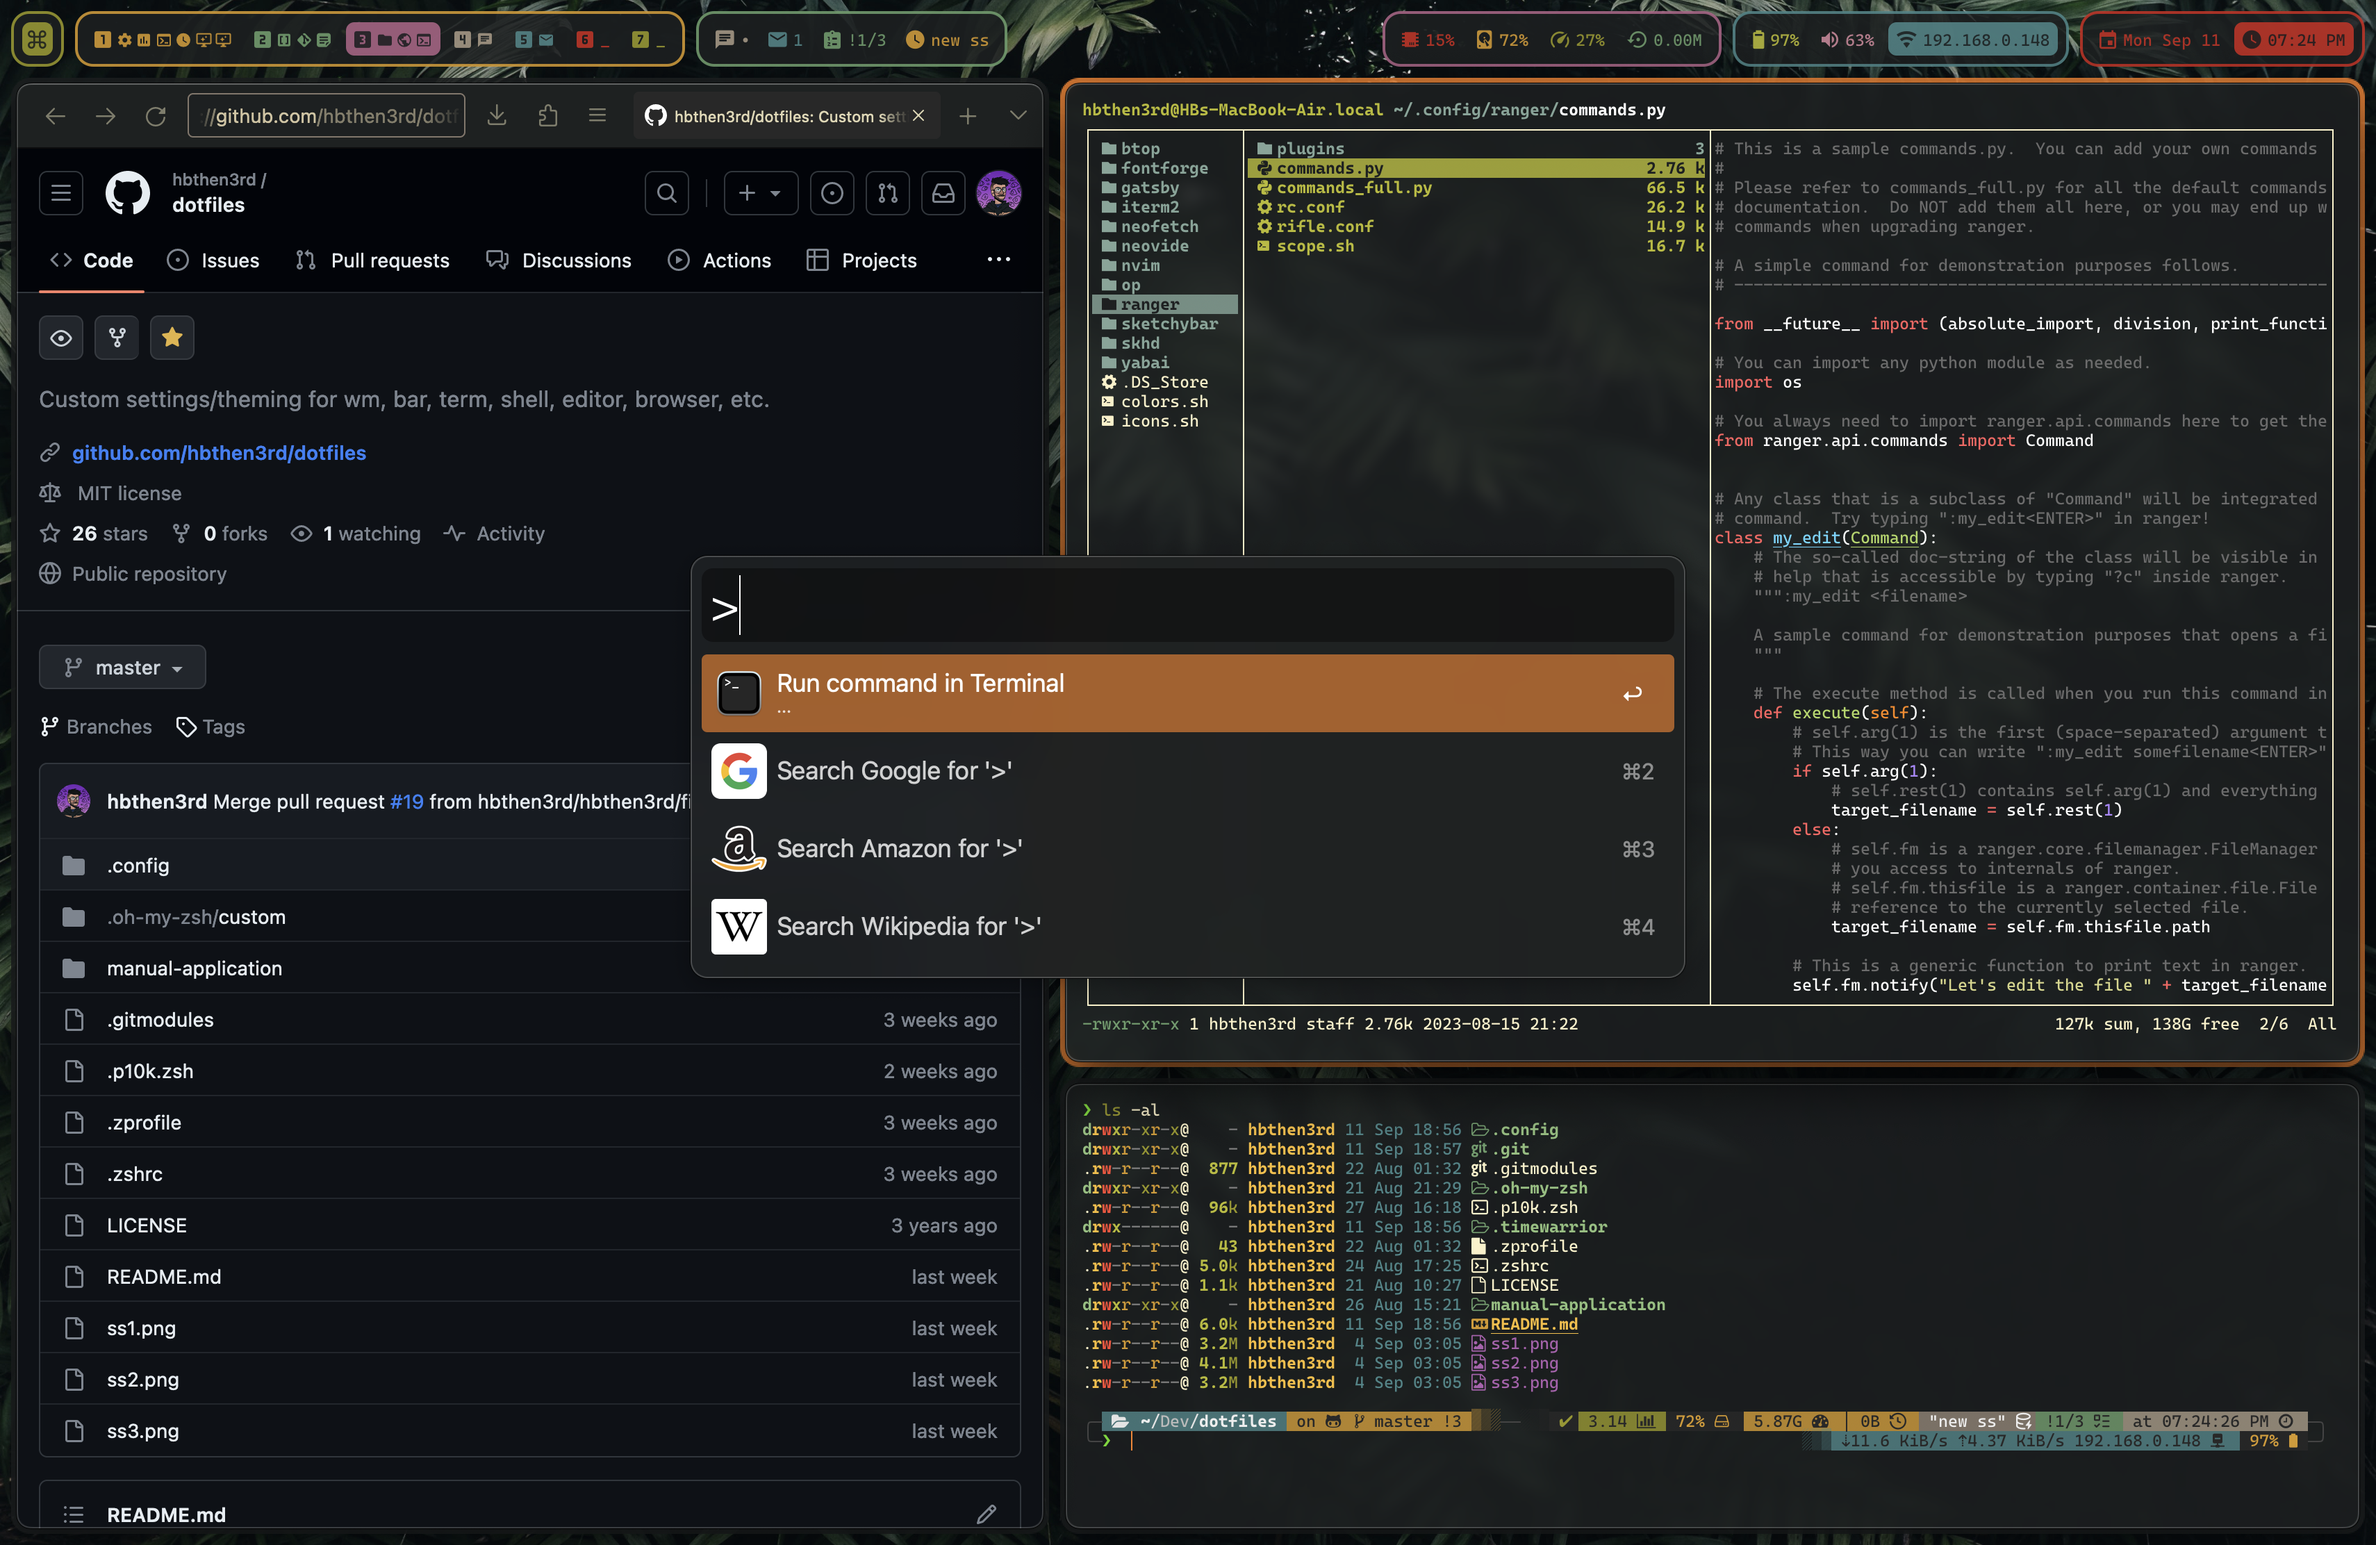
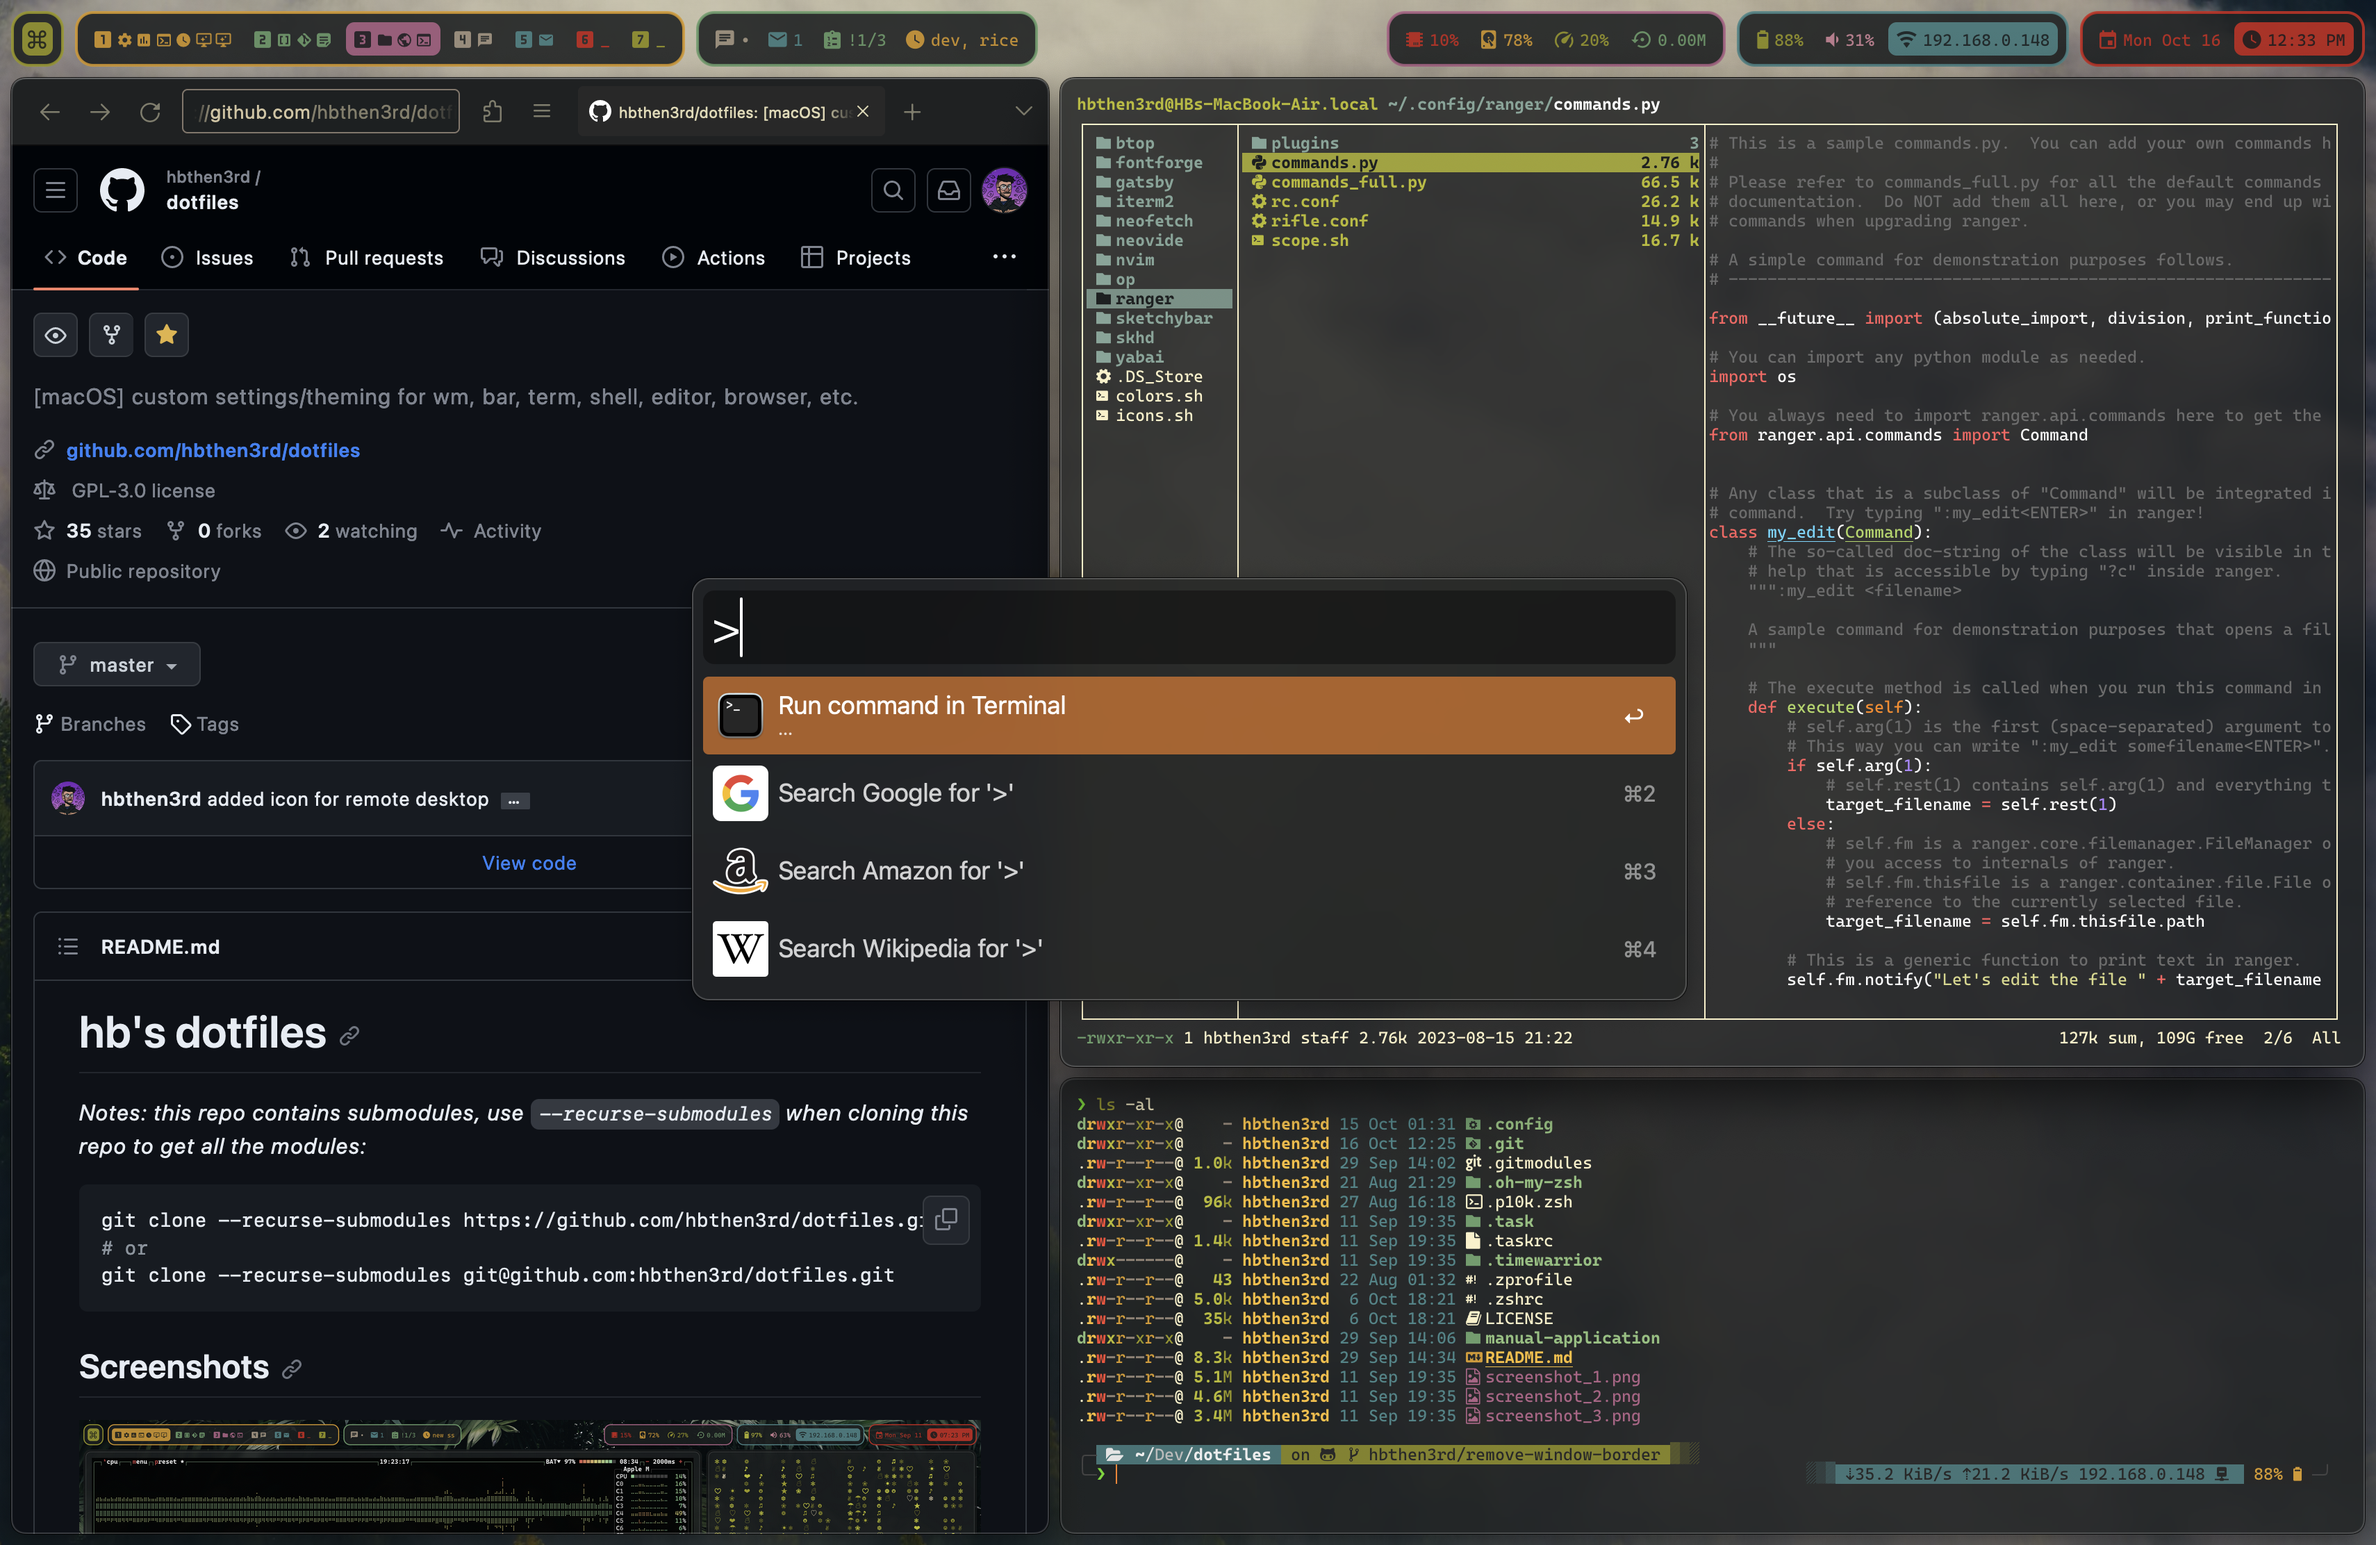
new screenshots

Changed region(s): [[0.0, 0.0, 1.0, 1.0], [0.2789, 0.1551, 0.3719, 0.1862], [0.217, 0.1551, 0.248, 0.1862]]

diff --git a/README.md b/README.md
@@ -10,9 +10,12 @@ git clone --recurse-submodules git@github.com:hbthen3rd/dotfiles.git
 
 ## Screenshots
 
-![Screenshot 1](/screenshot_1.png?raw=true 'Screenshot 1')
-![Screenshot 2](/screenshot_2.png?raw=true 'Screenshot 2')
-![Screenshot 3](/screenshot_3.png?raw=true 'Screenshot 3')
+![btop, neofetch, tty-clock, unimatrix, pipes.sh](/Screenshot_1.png?raw=true 'btop, neofetch, tty-clock, unimatrix, pipes.sh')
+![lazygit, neovim, bat](/Screenshot_2.png?raw=true 'lazygit, neovim, bat')
+![Firefox, ranger, eza, Alfred](/Screenshot_3.png?raw=true 'Firefox, ranger, eza, Alfred')
+![Finder](/Screenshot_4.png?raw=true 'Finder')
+![Visual Studio Code](/Screenshot_5.png?raw=true 'Visual Studio Code')
+![Firefox](/Screenshot_6.png?raw=true 'Firefox')
 
 ## Machine + OS
 
@@ -126,7 +129,7 @@ git clone --recurse-submodules git@github.com:hbthen3rd/dotfiles.git
   - [w3m](https://formulae.brew.sh/formula/w3m)
   - [jq](https://formulae.brew.sh/formula/jq)
 
-### Finder.app
+### Finder
 
 - `cmd` + `3` to View as Columns
 - `cmd` + `shift` + `.` to Show Hidden files
